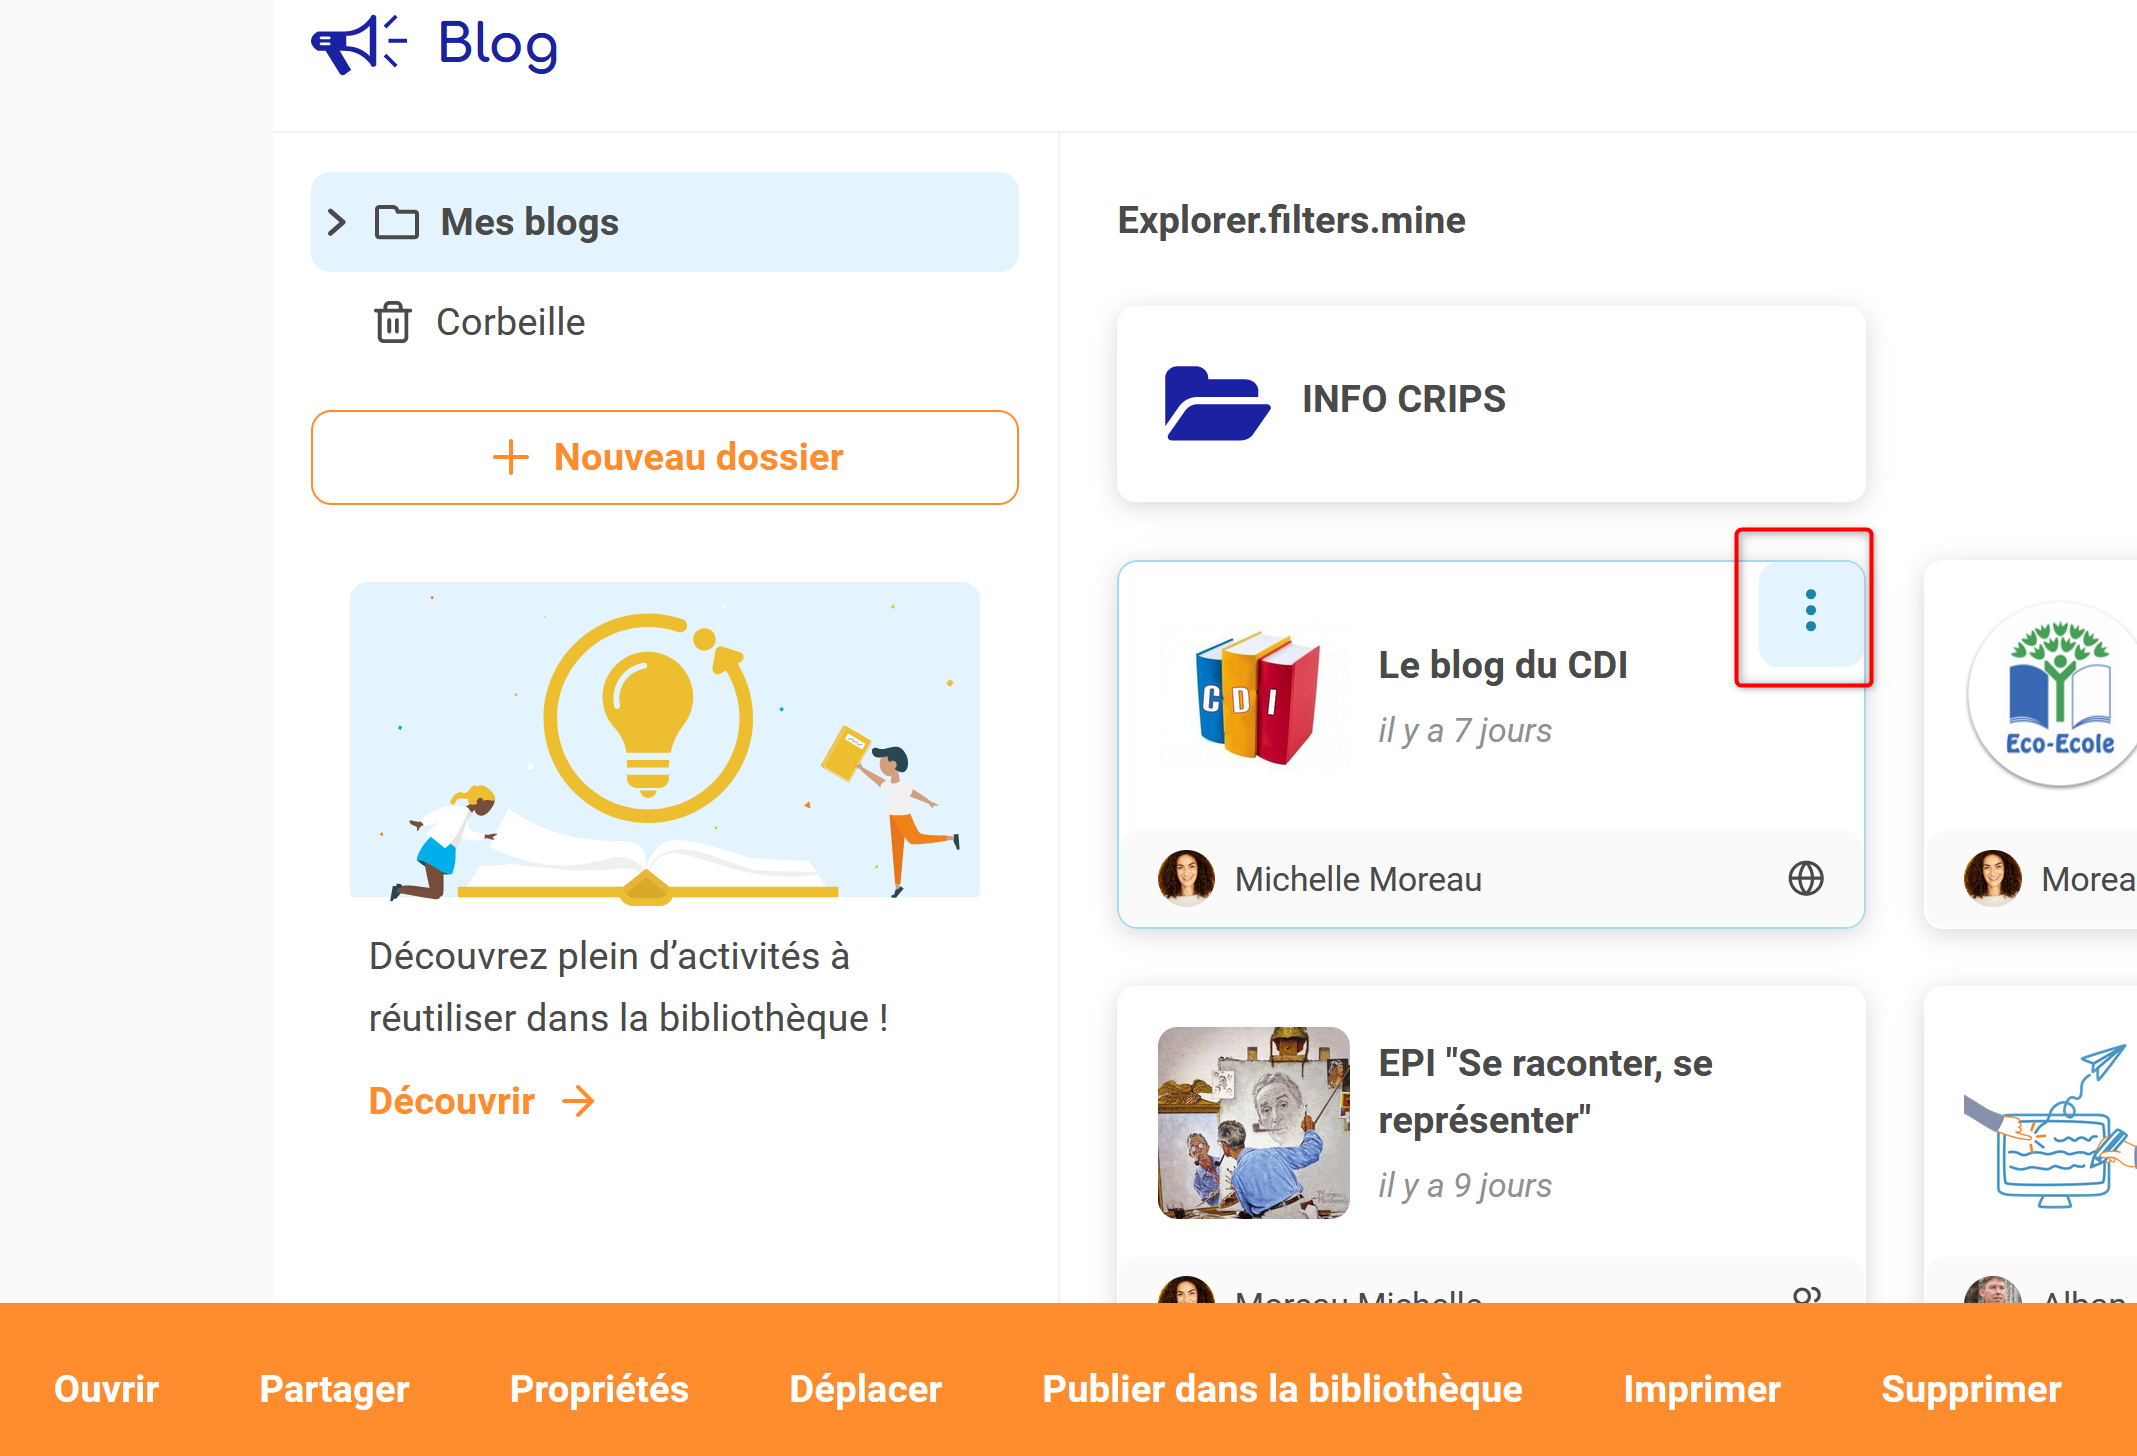
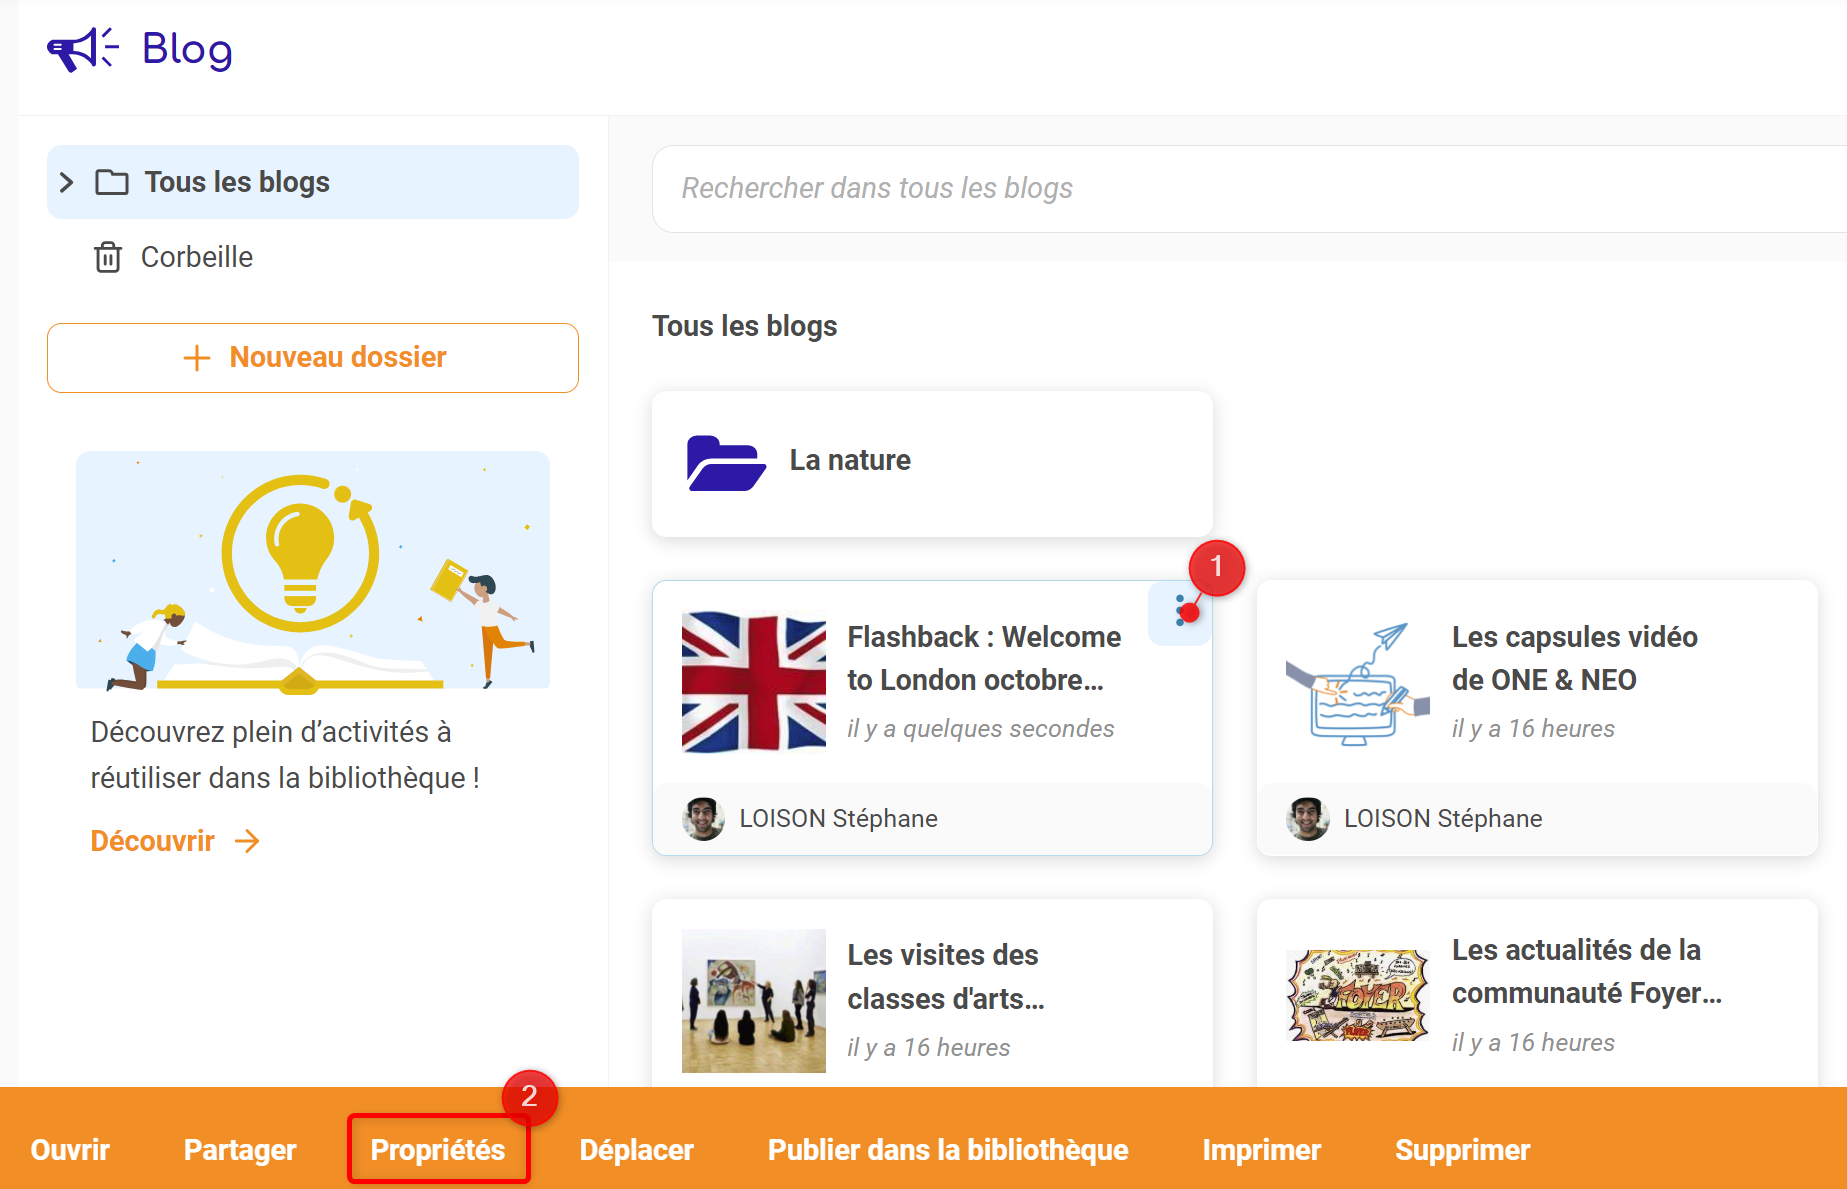
chore: Blog - update new features for 2D

diff --git a/application/blog.md b/application/blog.md
@@ -8,7 +8,7 @@ L’appli **Blog** permet de publier facilement des informations, en y intégran
 
 En cas de contribution de la part d’autres utilisateurs, le gestionnaire du blog choisit le **circuit de publication** souhaité : soit il relit les billets soumis par les autres utilisateurs avant de les publier, soit les billets sont publiés immédiatement quel qu’en soit l’auteur.
 
-![](<.gitbook/assets/blog_1-1024x478-2-2-2 (1) (1).png>)
+![Blog - Présentation de l'application .png](.gitbook%2Fassets%2FBlog%20-%20Pr%C3%A9sentation%20de%20l%27application%20.png)
 
 ## Créer un blog public ou privé
 
@@ -16,16 +16,19 @@ Cliquez sur la page « Mes applis » puis sur l’icône « Blog ».
 
 ![](<.gitbook/assets/blog2-1024x231-2-2-1-1 (2) (1).png>)
 
-Dans le service Blog, cliquez sur le bouton « Créer un blog » présent en haut à droite de la page.
+Dans le service Blog, cliquez sur le bouton « **Nouveau Blog** » présent en haut à droite de la page.
 
-![Blog - Page d'accueil .png](.gitbook%2Fassets%2FBlog%20-%20Page%20d%27accueil%20.png)
+![Blog - Créer un blog public ou privé.png](.gitbook%2Fassets%2FBlog%20-%20Cr%C3%A9er%20un%20blog%20public%20ou%20priv%C3%A9.png)
 
 Vous accédez à l’interface de création du blog.
 
-1. Indiquez le titre de votre blog.
-2. Ajoutez une vignette d’illustration du blog (si vous ne modifiez pas l’image, c’est la vignette par défaut qui s’affichera).
+1. Indiquez le **titre** de votre blog.
+2. Ajoutez une **description** (optionnel).
+3. N'oubliez pas d'illustrer votre blog par une vignette (si vous ne modifiez pas l’image, c’est la vignette par défaut qui s’affichera).
 
-Cliquez sur « Enregistrer » pour valider la création du blog.
+Cliquez sur « **Créer** » pour valider la création du blog.
+
+![Blog - Fenêtre de création .png](.gitbook%2Fassets%2FBlog%20-%20Fen%C3%AAtre%20de%20cr%C3%A9ation%20.png)
 
 **Créer un blog public**
 
@@ -38,15 +41,13 @@ via les 3 petits points du blog concerné.
 
 Cliquez sur "Propriétés". La page des propriétés du blog s'ouvre et vous pouvez y trouver une rubrique nommée "Accès au blog".
 
-![Blog - propriétés blog public .png](.gitbook%2Fassets%2FBlog%20-%20propri%C3%A9t%C3%A9s%20blog%20public%20.png)
+![Blog - Fenêtre des propriétés .png](.gitbook%2Fassets%2FBlog%20-%20Fen%C3%AAtre%20des%20propri%C3%A9t%C3%A9s%20.png)
 
 Activez l’option “Accessible publiquement via une URL :" (1)
 
-Complétez l’url se trouvant sous l’option (extension personnalisée) c'est l'adresse qui permettra d'accéder au blog sans être connecté à l'ENT. Vous pouvez personnaliser l'URL du blog (2).
+L'URL se génère automatiquement. C'est l'adresse qui permettra d'accéder au blog sans être connecté à l'ENT.
 
-Si l'adresse existe déjà, un message d'erreur apparaît.
-
-Pour communiquer facilement cette URL, vous pouvez cliquer sur le bouton "Copier URL" (3).
+Pour communiquer facilement cette URL, vous pouvez cliquer sur le bouton "Copier URL" (2).
 
 Note : Si l'on rend un blog public, les documents chargés sur le blog (par vous ou par un autre utilisateur) seront eux aussi publics.
 
@@ -142,12 +143,30 @@ Vous pouvez réaliser les actions suivantes en cliquant sur « Publier » ou sur
 
 ## Organiser ses blogs et billets de blog
 
+![Blog - Menu filtres et recherche.png](.gitbook%2Fassets%2FBlog%20-%20Menu%20filtres%20et%20recherche.png)
+
+Vous disposez de 3 filtres (1) pour afficher vos blogs :
+
+* **Mes blogs**, pour afficher/masquer les blogs dont vous êtes le propriétaire
+* **Les blogs** partagés avec moi, pour afficher/masquer les blogs qui vous ont été partagés
+* **Blogs publics**, pour afficher/masquer les blogs accessibles publiquement
+
+Une barre de recherche (2) vous permet de trouver rapidement un blog en saisissant son nom.
+
 Afin d'organiser vos blogs, vous disposez de l'arborescence suivante :
 
 * **Mes blogs**, qui est le dossier principal, dans lequel vous pourrez créer tous vos sous-dossiers (grâce au bouton Créer un dos
 * **Corbeille** où vous retrouverez les blogs que vous aurez supprimé, pour éviter toute suppression définitive involontaire
 
-Attention, les dossiers mis à la corbeille sont, eux, définitivement supprimés. Les blogs contenus dans ces dossiers sont mis dans la corbeille
+Fonctionnement de la **corbeille** et mise en sourdine :
+
+* Les ressources que vous avez placées ou qu’un auteur/gestionnaire a placées dans votre propre corbeille ne génèrent plus de notifications mails ni de notifications dans le fil de nouveautés.
+
+* Les dossiers placés dans la corbeille sont automatiquement et définitivement supprimés. Les ressources contenues de ces dossiers ne sont cependant pas définitivement supprimées, et s’ajouteront simplement aux autres éléments de la corbeille.
+
+* Les ressources restaurées depuis la corbeille se replaceront dans leur dossier d’origine si celui-ci existe toujours. Les notifications seront également réactivées pour les ressources restaurées.
+
+**Déplacer un blog**
 
 Après avoir créé vos différents dossiers, sélectionnez (1) le ou les blogs que vous voulez mettre dans vos dossiers, puis cliquez sur le bouton "Déplacer" (2).
 
@@ -175,7 +194,7 @@ La Bibliothèque est un espace de partage et d’inspiration entre enseignants.
 
 Si vous souhaitez publier votre blog dans la bibliothèque pour inspirer d’autres enseignants, faites comme ceci :
 
-1. Ouvrez le toast d’actions via les 3 petits points sur le blog que vous souhaitez publier. Un bandeau apparaît en bas avec le bouton "publier dans la bibliothèque" cliquez dessus.
+1. Ouvrez le toast d’actions via les 3 petits points sur le blog que vous souhaitez publier. Un bandeau apparaît en bas avec le bouton "**publier dans la bibliothèque**" cliquez dessus.
 
 ![Blog - publier dans la bibli.png](.gitbook%2Fassets%2FBlog%20-%20publier%20dans%20la%20bibli.png)
 
